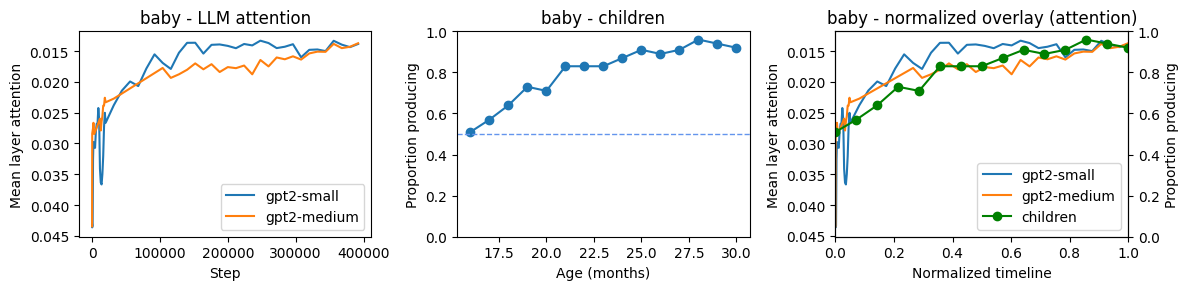
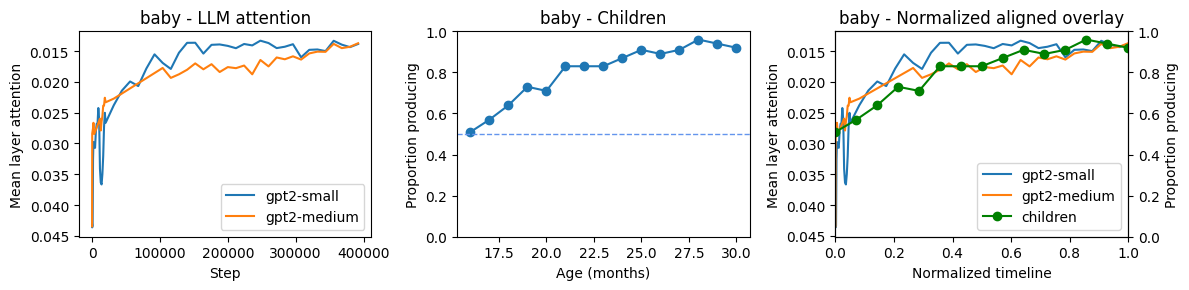
changed plot titles

Changed region(s): [[0.6846, 0.031, 0.9647, 0.0931], [0.4357, 0.031, 0.5601, 0.0931]]

diff --git a/src/experiments/plot.py b/src/experiments/plot.py
@@ -407,7 +407,7 @@ def main():
             axes[1].set_xlabel("Age (months)")
             axes[1].set_ylabel("Proportion producing")
             axes[1].set_ylim(0.0, 1.0)
-            axes[1].set_title(f"{w} - children")
+            axes[1].set_title(f"{w} - Children")
 
             ax3 = axes[2]
             ax3b = ax3.twinx()
@@ -447,7 +447,7 @@ def main():
             ax3.set_ylabel("Surprisal (bits)")
             ax3b.set_ylabel("Proportion producing")
             ax3b.set_ylim(0.0, 1.0)
-            ax3.set_title(f"{w} - normalized overlay")
+            ax3.set_title(f"{w} - Normalized aligned overlay")
 
             handles1, labels1 = ax3.get_legend_handles_labels()
             handles2, labels2 = ax3b.get_legend_handles_labels()
@@ -500,7 +500,7 @@ def main():
             axes[1].set_xlabel("Age (months)")
             axes[1].set_ylabel("Proportion producing")
             axes[1].set_ylim(0.0, 1.0)
-            axes[1].set_title(f"{w} - children")
+            axes[1].set_title(f"{w} - Children")
 
             ax3 = axes[2]
             ax3b = ax3.twinx()
@@ -521,7 +521,7 @@ def main():
             ax3.set_ylabel("Mean layer attention")
             ax3b.set_ylabel("Proportion producing")
             ax3b.set_ylim(0.0, 1.0)
-            ax3.set_title(f"{w} - normalized overlay (attention)")
+            ax3.set_title(f"{w} - Normalized aligned overlay")
             ax3.invert_yaxis()
 
             handles1, labels1 = ax3.get_legend_handles_labels()
